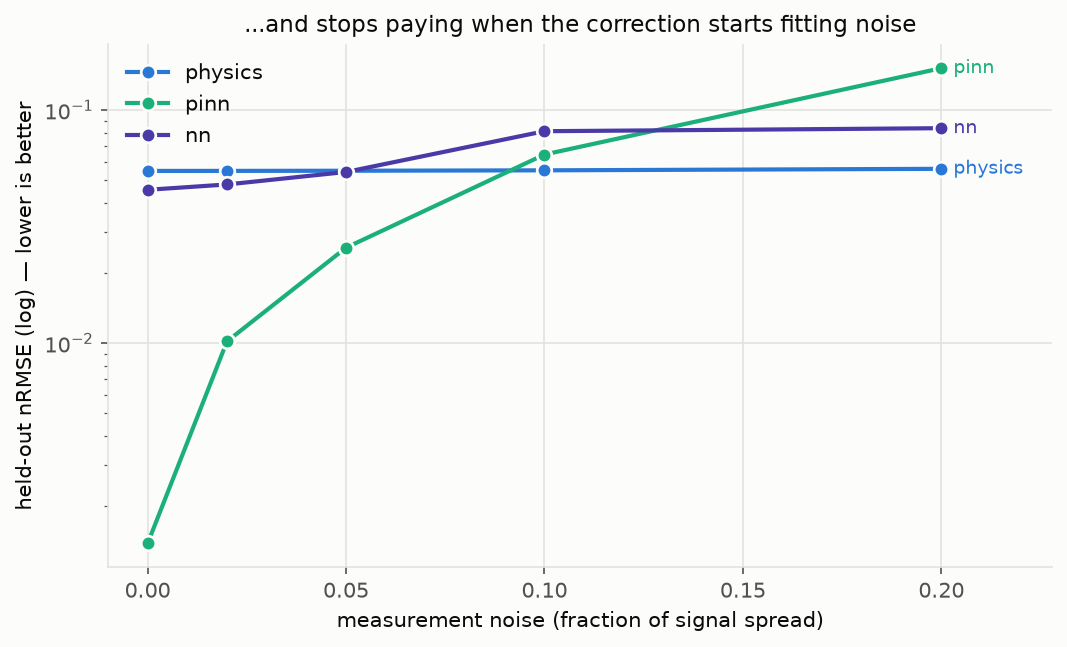
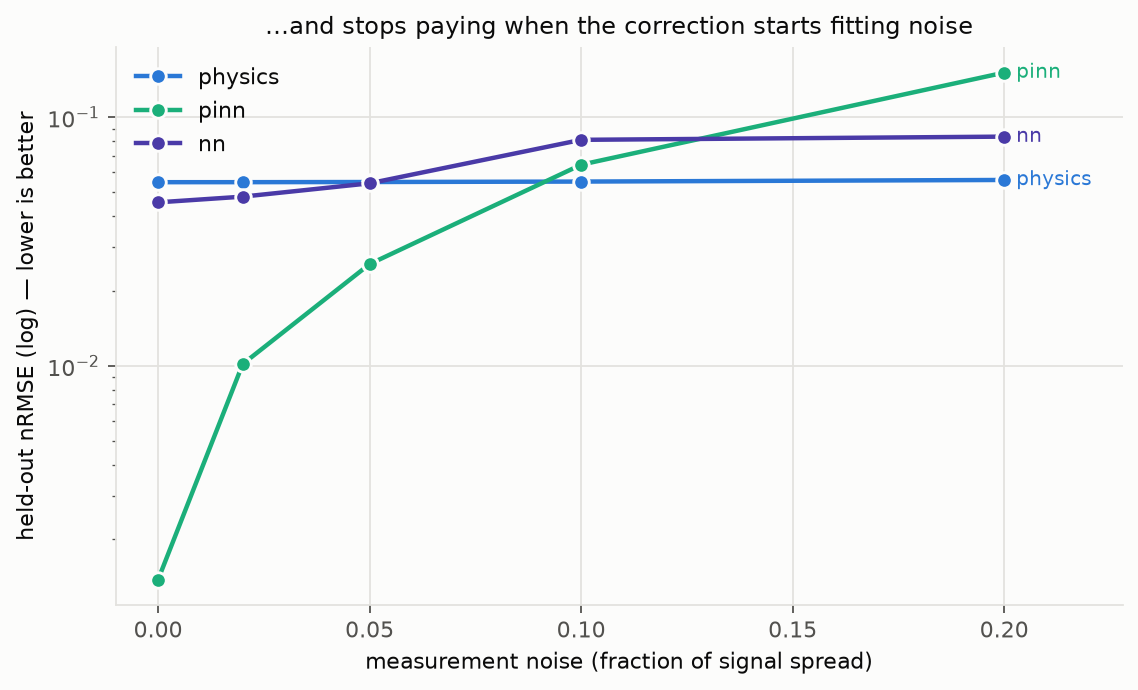
The neglected-terms study now reproduces its own tables, digit for digit
The first full end-to-end run since the study got a command showed that
`physprior neglected` did not reproduce what was committed. Its driver was
reconstructed from the CSVs, which do not record the settings, and it got
four of them wrong. Each was recovered by reproducing the committed tables
exactly, all arms and all seeds:

- algebraic sweeps: 2000 epochs and w_phys = 0.01, not 3000 and 1.0;
- noise and budget sweeps: eps = 0.3, not 0.2 (the study page said 0.2
  too, and is corrected);
- the pendulum: NeglectedODE takes RADIANS and the driver passed the table's
  DEGREES, so it simulated a pendulum released at 30 rad, spinning over the
  top, where every fit failed (physics nrmse 30.7 instead of 0.003). The
  detail figures 07 and 09 had the same bug. Also 2500 epochs, not 3000, and
  the dropped missing_pct column is restored;
- the PDE grid had lost eps = 0.6, which the page's table quotes.

neglected_eps/noise/budget/ode now match the committed CSVs exactly. On the
PDE rung the physics arm matches exactly; the PINN arm does not and should
not, because its code improved after that table was written (loss
balancing, collocation sampling). It is marked not converged either way.

The four real-data tracks reproduced exactly on the same run; only their
wall-clock seconds moved, and those diffs are not committed.

diff --git a/src/physprior/reporting/neglected_study.py b/src/physprior/reporting/neglected_study.py
@@ -57,11 +57,15 @@ def algebraic(quick: bool = False) -> None:
     """Rung 1: the law is an algebraic relation."""
     import physprior.benchmark.neglected as N
 
-    epochs = 600 if quick else 3000
-    kw: dict = {"epochs": epochs}
+    # These settings are the ones the committed tables were produced with,
+    # recovered by reproducing them to every printed digit (all three arms,
+    # every seed). They were not recorded when the tables were made, and the
+    # first reconstruction guessed 3000 epochs, w_phys = 1 and eps = 0.2 for
+    # the noise and budget sweeps -- all three wrong.
+    epochs = 600 if quick else 2000
+    kw: dict = {"epochs": epochs, "w_phys": 0.01}
     if quick:
         kw["seeds"] = (11,)
-    # The grids are the committed ones; see results/neglected_*.csv.
     eps_grid = [0.0, 0.2] if quick else [0.0, 0.1, 0.2, 0.4, 0.8]
     noise_grid = [0.0, 0.1] if quick else [0.0, 0.02, 0.05, 0.1, 0.2]
     budget_grid = [10, 160] if quick else [10, 20, 40, 80, 160]
@@ -77,7 +81,7 @@ def algebraic(quick: bool = False) -> None:
         ),
         "01_eps",
     )
-    noise = _write(N.sweep(noise_grid, "noise", eps=0.2, **kw), "noise")
+    noise = _write(N.sweep(noise_grid, "noise", eps=0.3, **kw), "noise")
     _save(
         P.fig_neglected_sweep(
             noise,
@@ -88,7 +92,7 @@ def algebraic(quick: bool = False) -> None:
         "02_noise",
     )
     budget = _write(
-        N.sweep(budget_grid, "n_train", eps=0.2, noise=0.02, **kw), "budget"
+        N.sweep(budget_grid, "n_train", eps=0.3, noise=0.02, **kw), "budget"
     )
     _save(
         P.fig_neglected_sweep(
@@ -119,21 +123,31 @@ def ode(quick: bool = False) -> None:
     """Rung 2: the law is an ordinary differential equation."""
     import physprior.benchmark.neglected as N
 
-    epochs = 600 if quick else 3000
+    epochs = 600 if quick else 2500  # the committed table's; see algebraic()
     seeds = (11,) if quick else N.REPORT_SEEDS
     print("rung 2: ODE")
     rows = []
+    # The grid is in DEGREES, as the table reports it; NeglectedODE takes
+    # RADIANS. Passing the degrees straight through simulated a pendulum
+    # released at 30 rad -- spinning over the top -- and every fit failed.
     amps = [10, 60] if quick else [10, 30, 60, 90, 120]
     for shape in ("damping", "anharmonic"):
         for amp in amps:
+            missing_pct = (
+                100
+                * N.NeglectedODE(
+                    amplitude=np.radians(amp), noise=0.02, shape=shape
+                ).missing_fraction
+            )
             for sd in seeds:
                 for res in N.run_ode(
-                    amplitude=amp, shape=shape, seed=sd, epochs=epochs
+                    amplitude=np.radians(amp), shape=shape, seed=sd, epochs=epochs
                 ):
                     rows.append(
                         {
                             "shape": shape,
                             "amplitude_deg": amp,
+                            "missing_pct": missing_pct,
                             "seed": sd,
                             "arm": res.arm,
                             "nrmse": res.nrmse_in,
@@ -182,7 +196,7 @@ def pde(quick: bool = False) -> None:
     print("rung 3: PDE")
     rows = []
     for shape in ("diffusive", "advective"):
-        for eps in [0.0, 0.3] if quick else [0.0, 0.15, 0.3]:
+        for eps in [0.0, 0.3] if quick else [0.0, 0.15, 0.3, 0.6]:
             for sd in seeds:
                 for res in N.run_pde(eps=eps, shape=shape, seed=sd, epochs=epochs):
                     rows.append(
@@ -259,7 +273,7 @@ def detail(quick: bool = False) -> None:
             "A missing force shaped like the law: absorbed into omega",
         ),
     ):
-        ode_sys = N.NeglectedODE(amplitude=amp, noise=0.02, shape=shape)
+        ode_sys = N.NeglectedODE(amplitude=np.radians(amp), noise=0.02, shape=shape)
         t, theta = ode_sys.sample(60, seed=11)
         predict, _, _, force, hist = N._ode_fit_pinn(
             ode_sys, t, theta, w_phys=1e-3, epochs=epochs, seed=11

diff --git a/docs/neglected/README.md b/docs/neglected/README.md
@@ -77,7 +77,7 @@ converged" are different claims** and only the second one is physics.
 
 ![noise](../../figures/neglected/02_noise.png)
 
-At `ε = 0.2`, against added noise:
+At `ε = 0.3`, against added noise:
 
 | noise | `physics` | `pinn` | who wins |
 |---|---|---|---|
